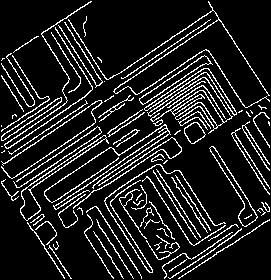
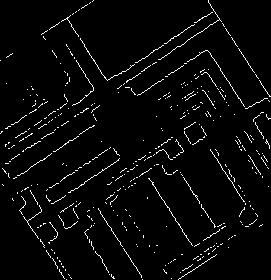
201510312302

diff --git a/EdgeDetectLine/EdgeDetectLine.m b/EdgeDetectLine/EdgeDetectLine.m
@@ -1,22 +1,21 @@
 
 function EdgeDetectLine
-clc
-close
 I = imread('circuit.png');
 I = rgb2gray(I);
 I = im2double(I);
-I_edge = edge(I, 'canny');
-%I_edge = im2double(I_edge);
-imwrite(I_edge, 'edgeout.jpg');
+%imwrite(I, 'circuitgray.jpg');
+I_edge = edge(I);
+k=5;
+%imwrite(I_edge, 'edgeout.jpg');
 [H, theta, rho] = hough(I_edge);
-peaks = houghpeaks(H,5);
-I_edge = im2double(I_edge);
-lines = houghlines(I_edge, theta, rho, peaks, 'FillGap', 5);
+%nhoodsize = uint8(0.1*size(H)/50);
+peaks = houghpeaks(H, k);
+lines = houghlines(I_edge, theta, rho, peaks, 'FillGap', 100);
 figure
 imshow(I_edge)
 hold on    
 for k=1:length(lines)    
     xy=[lines(k).point1;lines(k).point2];    
-    plot(xy(:,1),xy(:,2),'LineWidth',4,'Color','red');    
+    plot(xy(:,1),xy(:,2),'LineWidth',1,'Color','red');    
 end  
 end
